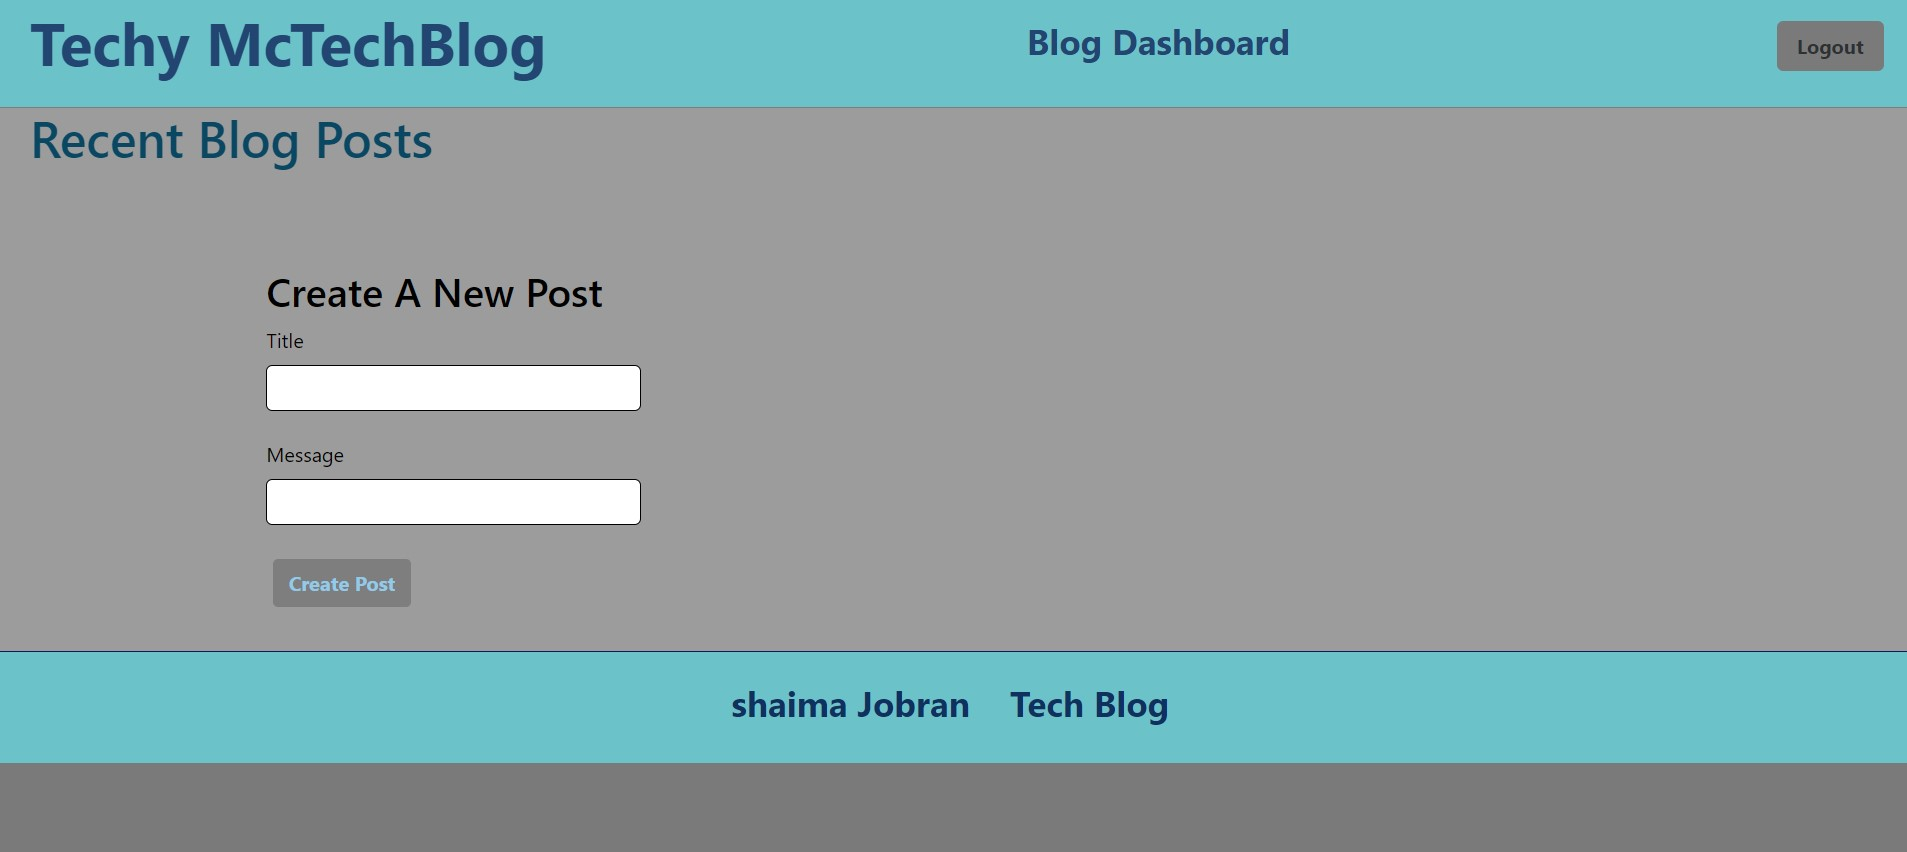
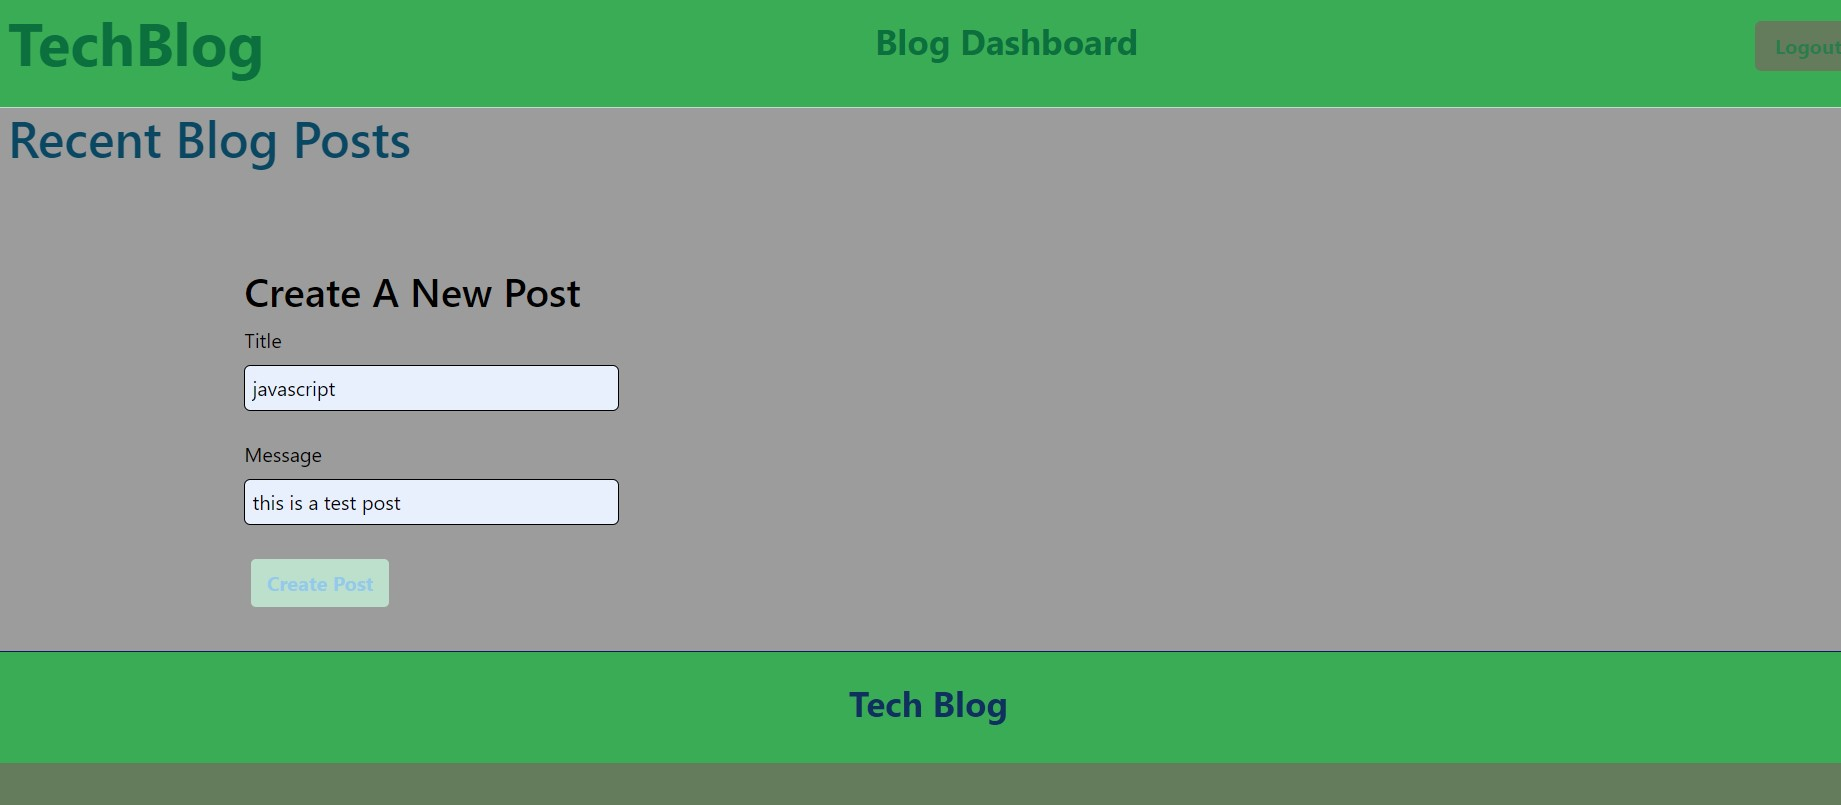
final edit

diff --git a/public/css/style.css b/public/css/style.css
@@ -1,7 +1,7 @@
 :root {
-  --primary-color: #7a7a7a;
-  --secondary-color: #6bc2c9;
-  --tertiary-color: #7e7e7e;
+  --primary-color: #647c5c;
+  --secondary-color: #3aac56;
+  --tertiary-color: #bde0cd;
 }
 h1 {
   color: rgb(10, 71, 99);
@@ -33,7 +33,7 @@ p {
 
 a {
   text-decoration: none;
-  color: rgb(34, 69, 114);
+  color: rgb(11, 112, 61);
   font-weight: bold;
   transition: color .1s;
 }
@@ -46,7 +46,7 @@ button {
   background-color: var(--primary-color);
   border: 0;
   padding: 1%;
-  color: rgb(45, 49, 51);
+  color: rgb(43, 124, 77);
   font-weight: bold;
   transition: background-color .1s;
   cursor: pointer;

diff --git a/README.md b/README.md
@@ -92,7 +92,7 @@ THEN I am able to view comments but I am prompted to log in again before I can a
 ![screenshot](public/images/6.jpg)
 ![screenshot](public/images/7.jpg)
 ![screenshot](public/images/8.jpg)
-
+![screenshot](public/images/9.jpg)
 
 
 ## Contact
